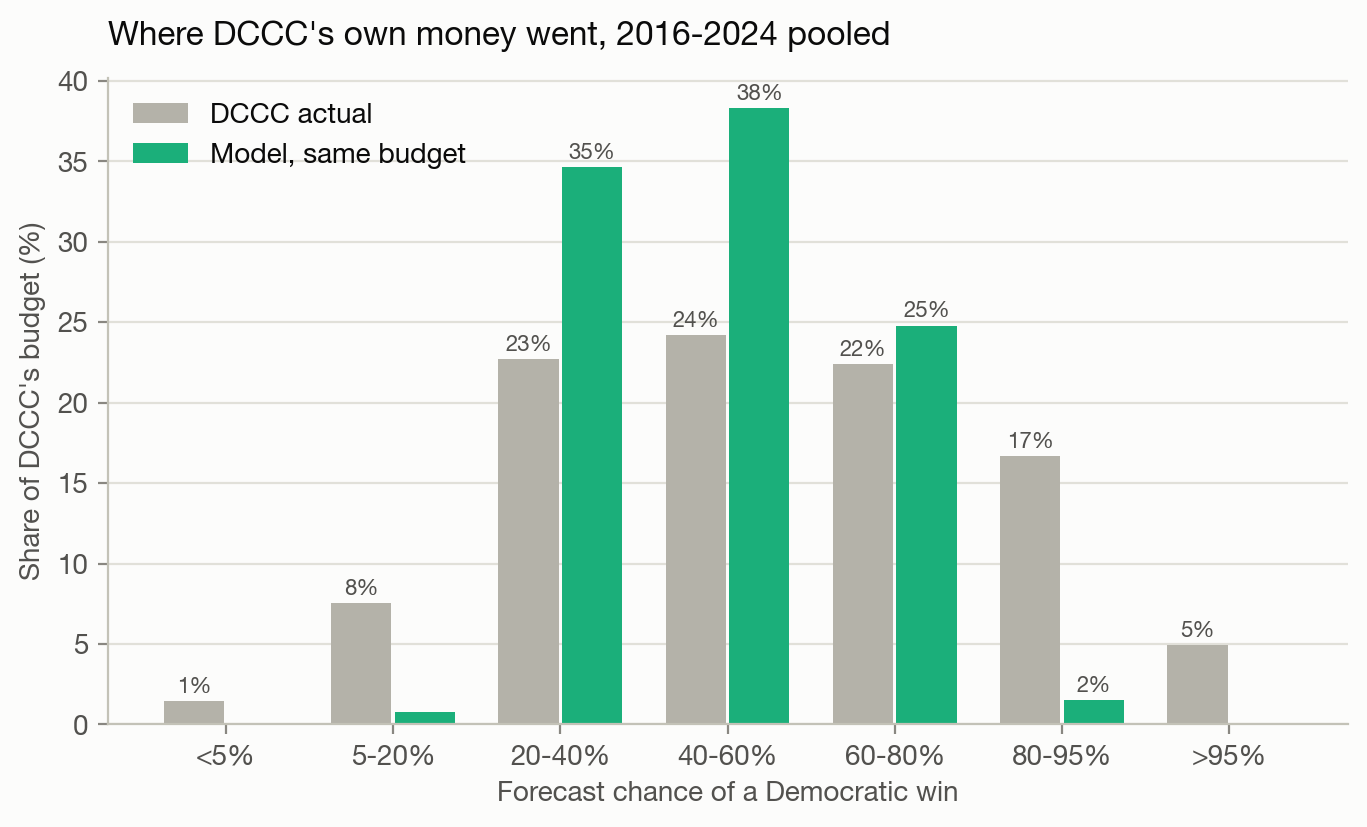
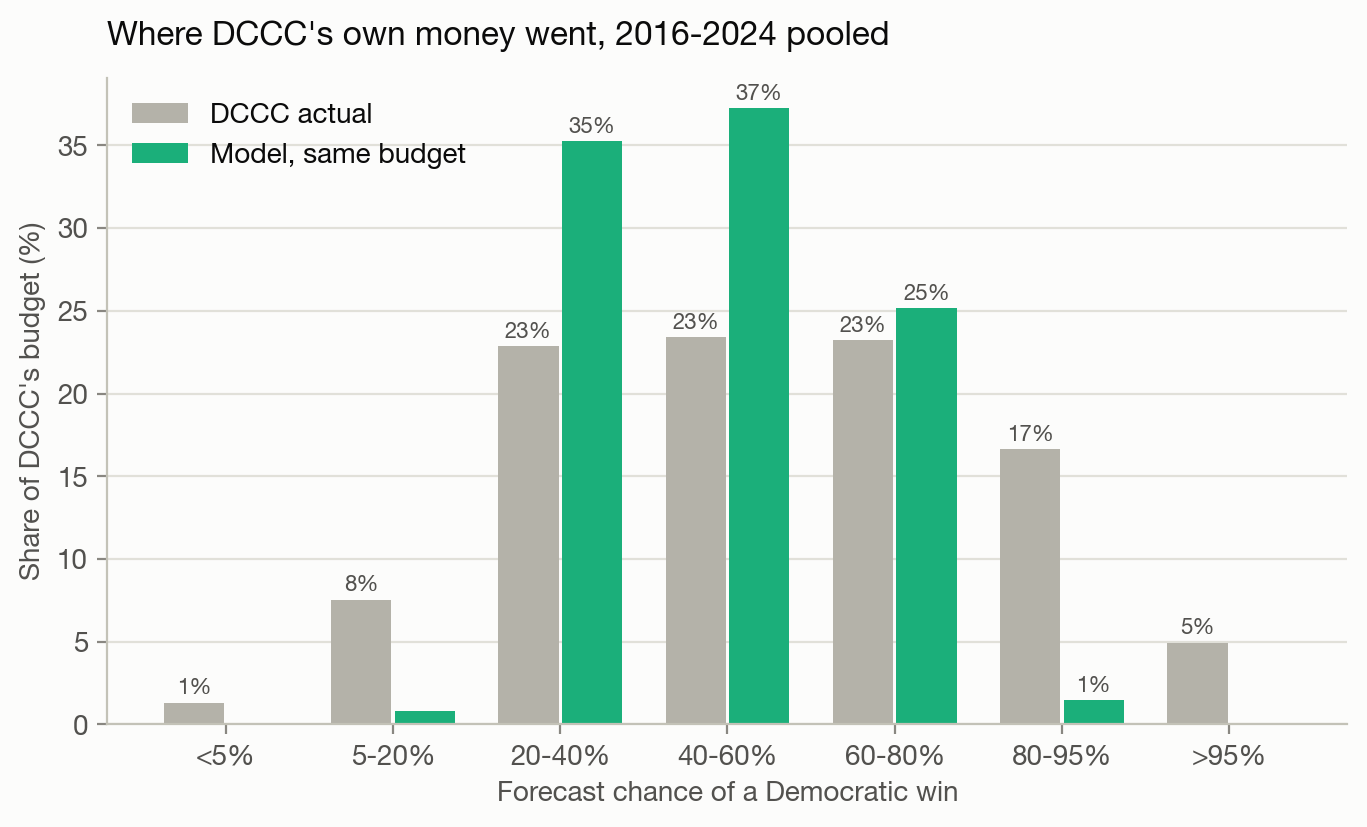
Fix nominee matching behind the 2022 under-20% outlier
The 2022 under-20% band in the implied-belief table read $4,710M per seat
(38.7x). The band cost is already dollar-weighted (sum x / sum x*m); the
outlier was AZ-02, where DCCC's $0.6M sat in a race the forecast gave
Democrats 0.2% because their nominee, O'Halleran, was never matched to FEC.

- load_results: repair names MIT stores as UTF-8 decoded twice ("TOM
  OâHALLERAN", 55 names, nearly all 2022) and straighten curly quotes.
  Fixes O'Halleran (AZ-02) and García (IL-04) in 2022.
- load_candidates, incumbent_history: drop apostrophes on both sides, since
  FEC writes both O'HALLERAN and DESPOSITO; otherwise D'Esposito (NY-04)
  matched Alison Esposito of NY-18 in 2024.
- load_early_money: also use the next cycle's candidate-committee links
  (Gillen's 2024 NY-04 committee is linked only for 2026).
- report: a band where DCCC spent nothing shows as such instead of "nan",
  and the text says how band costs are computed. 2022 now has no DCCC
  money under 20%.

diff --git a/campaign/report.py b/campaign/report.py
@@ -162,9 +162,11 @@ def report(races, backtests, fc, games, media, mixes):
     belief_rows = []
     for b in backtests:
         d, safe_k = b["belief"][HALF_SATURATION], [b["belief"][h].multiplier["80%+"] for h in HALF_SATURATIONS]
-        belief_rows.append(
-            f"| {b['cycle']} | " + " / ".join(f"${1 / v:.0f}M" for v in d.per_million) + " | "
-            + " | ".join(f"{d.multiplier[band]:.1f}x on ${d.dollars[band] / 1e6:.1f}M" for band in ("under 20%", "80%+"))
+        belief_rows.append(  # a band where DCCC spent nothing has no marginal cost to read back
+            f"| {b['cycle']} | " + " / ".join(f"${1 / v:.0f}M" if d.dollars[band] > 0 else "none spent"
+                                             for band, v in d.per_million.items()) + " | "
+            + " | ".join(f"{d.multiplier[band]:.1f}x on ${d.dollars[band] / 1e6:.1f}M" if d.dollars[band] > 0
+                         else "no DCCC money" for band in ("under 20%", "80%+"))
             + f" | {min(safe_k):.1f}-{max(safe_k):.1f}x |")
     safe_k = {b["cycle"]: b["belief"][HALF_SATURATION].multiplier["80%+"] for b in backtests}
     k_lo, k_hi = min(safe_k, key=safe_k.get), max(safe_k, key=safe_k.get)
@@ -359,7 +361,7 @@ Outside 2018, most of it protects DCCC's own incumbents, consistent with its "Fr
 |---|---|---|---|---|
 {chr(10).join(belief_rows)}
 
-The multiplier is how many times as far a dollar would have to move the margin in that band, compared with DCCC's 20-80% races, for its split to be optimal. The same number also reads as how many times as much those seats would have to be worth to DCCC, or as a sign that the forecast understates their risk. This data can't tell the three apart. In 80%+ races it runs from {safe_k[k_lo]:.1f}x ({k_lo}) to {safe_k[k_hi]:.1f}x ({k_hi}). Unlike the gain, it doesn't depend on how strong party money is assumed to be: the strength cancels in the ratio. Moving the half-saturation from $1.65M to $16.5M changes no year's 80%+ multiplier by more than {k_spread:.1f}. The costs in the first column do scale with the assumed strength; only their ratios are free of it.
+The multiplier is how many times as far a dollar would have to move the margin in that band, compared with DCCC's 20-80% races, for its split to be optimal. The same number also reads as how many times as much those seats would have to be worth to DCCC, or as a sign that the forecast understates their risk. This data can't tell the three apart. Each band's cost is DCCC's dollars there divided by the expected seats that spending a little more in proportion would buy, a dollar-weighted average of the marginal effect rather than an average of each race's cost, so one small buy in a hopeless race can't dominate a band (a band holding nothing else can). In 80%+ races it runs from {safe_k[k_lo]:.1f}x ({k_lo}) to {safe_k[k_hi]:.1f}x ({k_hi}). Unlike the gain, it doesn't depend on how strong party money is assumed to be: the strength cancels in the ratio. Moving the half-saturation from $1.65M to $16.5M changes no year's 80%+ multiplier by more than {k_spread:.1f}. The costs in the first column do scale with the assumed strength; only their ratios are free of it.
 
 **Would a committee facing a strategic opponent spend differently?** Another explanation for defending "safe" seats is deterrence: a seat DCCC leaves at $0 is where NRCC's first dollars go furthest. That can be tested by solving the game. DCCC maximizes expected Democratic seats and NRCC minimizes them, each re-spending its real budget under the same spending curve. The payoff is concave for DCCC and convex for NRCC, so a stable equilibrium exists. Fictitious play finds it (each side best-responds to the average of the other's past choices).
 

diff --git a/campaign/load_candidates.py b/campaign/load_candidates.py
@@ -9,7 +9,9 @@ Sinema ID in AZ-09). So each FEC candidate is matched to a name actually on
 the November ballot (MIT): the ballot surname must appear somewhere in the
 FEC name, after stripping accents ("SÁNCHEZ" vs "SANCHEZ"). Searching the
 whole FEC name, not just the part before the comma, catches married names
-("MATTELIN, CAITLIN RAE DRAPER" is the ballot's Caitlin Draper). FEC's party
+("MATTELIN, CAITLIN RAE DRAPER" is the ballot's Caitlin Draper).
+Apostrophes are dropped on both sides, because FEC spells the same kind of
+name both ways ("O'HALLERAN, TOM" but "DESPOSITO, ANTHONY P"). FEC's party
 code is sometimes unknown ("UNK"); a name match in the district is enough
 then. After redistricting FEC often keeps a member's old district number
 (Schweikert ran in AZ-01 in 2022 but is filed under AZ-06), so a nominee
@@ -56,7 +58,8 @@ def load_candidates(cycle, results):
     fec["district_id"] = fec.state + "-" + fec.district.str.zfill(2)
     fec["disbursements"] = pd.to_numeric(fec.disbursements, errors="coerce").fillna(0)
     columns = ["district_id", "party", "cand_id", "disbursements", "ici", "name"]
-    fec_ascii = fec.name.str.normalize("NFKD").str.encode("ascii", "ignore").str.decode("ascii").str.upper()
+    fec_ascii = (fec.name.str.normalize("NFKD").str.encode("ascii", "ignore").str.decode("ascii").str.upper()
+                 .str.replace("'", "", regex=False))         # FEC writes both O'HALLERAN and DESPOSITO
     fec["words"] = fec_ascii.str.findall(WORD).map(set)
     fec["initial"] = fec_ascii.str.split(",").str[1].str.strip().str[:1]
 
@@ -94,7 +97,7 @@ def load_candidates(cycle, results):
     ballot = pd.concat([results[["district_id", col]].explode(col).rename(columns={col: "ballot_name"}).assign(party=party)
                         for party, col in (("D", "d_names"), ("R", "r_names"))]).dropna()
     ballot_words = (ballot.ballot_name.str.normalize("NFKD").str.encode("ascii", "ignore").str.decode("ascii")
-                    .str.upper().str.findall(WORD).map(lambda words: [w for w in words if w not in SUFFIXES] or [""]))
+                    .str.upper().str.replace("'", "", regex=False).str.findall(WORD).map(lambda words: [w for w in words if w not in SUFFIXES] or [""]))
     ballot["surname"], ballot["initial"] = ballot_words.str[-1], ballot_words.str[0].str[:1]
     ballot["state"] = ballot.district_id.str[:2]
 

diff --git a/campaign/load_early_money.py b/campaign/load_early_money.py
@@ -14,11 +14,13 @@ the latest version of each report counts.
   June 1 and July 15 stands in. With that, 2012's matched nominees with
   June 30 money account for 99% of nominee spending.
 - Which committee: the candidate's principal or other authorized committee
-  for that cycle in FEC's candidate-committee links, whichever raised the
-  most. Not the candidate master file's principal committee: that is the
-  latest one, sometimes created after the election (Coffman's 2014
-  campaign filed under a committee later re-designated). Joint fundraising
-  committees are left out; they pass their money on to the campaign.
+  in FEC's candidate-committee links for that cycle or the next, whichever
+  raised the most by June 30. The next cycle's file catches committees FEC
+  links late (Gillen's 2024 campaign in NY-04 is linked only for 2026).
+  Not the candidate master file's principal committee: that is the latest
+  one, sometimes created after the election (Coffman's 2014 campaign filed
+  under a committee later re-designated). Joint fundraising committees are
+  left out; they pass their money on to the campaign.
 """
 
 from pathlib import Path
@@ -42,9 +44,10 @@ def load_early_money(cycle):
     latest = (pd.concat([july, stand_in]).sort_values(["end", "receipt_date", "file_number"])
               .drop_duplicates("committee_id", keep="last"))
 
-    links = pd.read_csv(RAW / f"ccl{str(cycle)[2:]}.txt", sep="|", header=None, dtype=str, usecols=[0, 2, 3, 5],
-                        names=["cand_id", "fec_year", "committee_id", "designation"])
-    links = links[(links.fec_year == str(cycle)) & links.designation.isin(["P", "A"])]
+    files = [RAW / f"ccl{str(c)[2:]}.txt" for c in (cycle, cycle + 2)]
+    links = pd.concat(pd.read_csv(f, sep="|", header=None, dtype=str, usecols=[0, 3, 5],
+                                  names=["cand_id", "committee_id", "designation"]) for f in files if f.exists())
+    links = links[links.designation.isin(["P", "A"])].drop_duplicates(["cand_id", "committee_id"])
     money = latest.merge(links[["cand_id", "committee_id"]], on="committee_id").rename(columns=MONEY)
     money["own"] = money[OWN].fillna(0).sum(axis=1)
     money = money[["cand_id", "raised", "spent", "own"]].fillna(0)

diff --git a/campaign/load_results.py b/campaign/load_results.py
@@ -12,6 +12,11 @@ House general-election results by district, from MIT Election Lab.
 - Every candidate with a D (or R) line counts toward that party, which
   handles Louisiana's multi-candidate November election and California's
   top-two (a D-vs-D race shows up as uncontested).
+- Names: about 60 rows, nearly all 2022, are UTF-8 decoded twice ("TOM
+  OâHALLERAN" for O'Halleran's curly apostrophe). They are repaired, and
+  curly quotes straightened, so names match FEC's spelling. Otherwise
+  O'Halleran (AZ-02, 2022) and García (IL-04, 2022) go unmatched and their
+  money counts as $0.
 """
 
 from pathlib import Path
@@ -21,6 +26,18 @@ import pandas as pd
 RAW = Path(__file__).resolve().parents[1] / "data" / "raw" / "house_1976_2024.csv"
 DEM = {"DEMOCRAT", "DEMOCRATIC", "DEMOCRATIC-FARMER-LABOR", "DEMOCRATIC-NPL", "DEMOCRATIC-NONPARTISAN LEAGUE"}
 REP = {"REPUBLICAN", "REPUBLICAN, LIBERTARIAN"}
+QUOTES = str.maketrans({"\u2018": "'", "\u2019": "'", "\u201c": '"', "\u201d": '"'})
+
+
+def clean_name(name):
+    """Undo UTF-8 decoded twice ("OâHALLERAN") and straighten curly quotes."""
+    for wrong in ("latin-1", "cp1252"):
+        try:
+            name = name.encode(wrong).decode("utf-8")
+            break
+        except (UnicodeEncodeError, UnicodeDecodeError):
+            pass
+    return name.translate(QUOTES)
 
 
 def load_results(cycle):
@@ -33,6 +50,7 @@ def load_results(cycle):
         keep &= ~raw[col].astype(str).str.upper().eq("TRUE")
     g = raw[keep].copy()
     g["district_id"] = g.state_po + "-" + g.district.str.zfill(2)
+    g["candidate"] = g.candidate.astype(str).map(clean_name)
     g["votes"] = pd.to_numeric(g.candidatevotes, errors="coerce").fillna(0)
     label = g.party.fillna("").str.upper()
 

diff --git a/campaign/incumbent_history.py b/campaign/incumbent_history.py
@@ -40,7 +40,7 @@ def incumbent_history(cycle, races, prior_gb):
     names (name_d, name_r, "SURNAME, FIRST"). `prior_gb`: the generic ballot
     two years earlier."""
     def words(name):  # ascii, upper-case words of a name, suffixes dropped
-        name = unicodedata.normalize("NFKD", str(name)).encode("ascii", "ignore").decode("ascii").upper()
+        name = unicodedata.normalize("NFKD", str(name)).encode("ascii", "ignore").decode("ascii").upper().replace("'", "")
         return [w for w in WORD.findall(name) if w not in SUFFIXES]
 
     earlier = load_results(cycle - 4)

diff --git a/REPORT.md b/REPORT.md
@@ -5,10 +5,10 @@ Generated by `python run.py` on 2026-10-28. Every number below is computed by th
 ## Summary
 
 - **The forecast holds up out of sample.** Each year from 2016-2024 was predicted using only earlier elections. Brier scores run from 0.015 to 0.036, and predicted and actual win rates match by tier from Safe D through Lean R (figure 3).
-- **DCCC's own spending was close to the best use of the same money, if you trust the polls.** At the default spending assumption, reallocating DCCC's budget would have gained +0.05 to +0.19 expected seats per cycle (average +0.13). Even the most generous assumption tested gains at most +1.75. The main difference: DCCC put 22% of its money into races already 80%+ likely to go Democratic, 73% of it protecting its own incumbents. In 2020 that caution was justified: 7 of those "safe" seats were lost anyway. And part of what looks like over-caution was the forecast's error, not DCCC's. First-term members, many elected in a wave, run well behind the usual incumbency edge. Flagging them, and carrying over each seat's last result, cuts the share of DCCC's 2020 money the forecast calls safe from 37% to 32% (figure 4, sections 4-5).
+- **DCCC's own spending was close to the best use of the same money, if you trust the polls.** At the default spending assumption, reallocating DCCC's budget would have gained +0.06 to +0.19 expected seats per cycle (average +0.13). Even the most generous assumption tested gains at most +1.75. The main difference: DCCC put 22% of its money into races already 80%+ likely to go Democratic, 73% of it protecting its own incumbents. In 2020 that caution was justified: 7 of those "safe" seats were lost anyway. And part of what looks like over-caution was the forecast's error, not DCCC's. First-term members, many elected in a wave, run well behind the usual incumbency edge. Flagging them, and carrying over each seat's last result, cuts the share of DCCC's 2020 money the forecast calls safe from 37% to 32% (figure 4, sections 4-5).
 - **Two readings that don't assume how strong party money is.** Reallocating DCCC's budget gains a full seat only if its first $1M in a race moves the margin 1.2-2.5 points, against 0.25 assumed. And DCCC's own split is optimal only if a dollar in its 80%+ races works 1.5-4.2 times as hard as one in its 20-80% races, or those seats are worth that much more to it (section 5).
 - **Neither strategy nor TV prices explain that defensive spending.** In a two-player game against NRCC, DCCC's best play puts at most 3% of its money in 80%+ seats (figure 5). DCCC already spends about half as much per race in the costliest TV markets, and pricing in market cost makes the model leave them almost entirely. No spender shifts toward mail where TV is most expensive (figure 6).
-- **2026: the national environment matters more than the new maps.** Redrawn maps in 9 states move Harris-won districts from 72 to 68 in those states (figure 7). At the current D+8.4 generic ballot, the model expects 242 Democratic seats among 434 modeled races (80% range 226-260), a 98% chance of a majority. A 3-point polling miss moves the expected total by about 13 seats (figures 8-9).
+- **2026: the national environment matters more than the new maps.** Redrawn maps in 9 states move Harris-won districts from 72 to 68 in those states (figure 7). At the current D+8.4 generic ballot, the model expects 243 Democratic seats among 434 modeled races (80% range 226-260), a 98% chance of a majority. A 3-point polling miss moves the expected total by about 13 seats (figures 8-9).
 
 ## 1. Data
 
@@ -42,7 +42,7 @@ Generated by `python run.py` on 2026-10-28. Every number below is computed by th
 | 2016 | 406 | 338 | +0.6 | $64M | $64M | $54M | $57M |
 | 2018 | 434 | 390 | +7.3 | $73M | $60M | $222M | $188M |
 | 2020 | 434 | 404 | +6.8 | $87M | $76M | $212M | $207M |
-| 2022 | 432 | 396 | -2.5 | $96M | $86M | $222M | $272M |
+| 2022 | 433 | 397 | -2.5 | $96M | $86M | $222M | $272M |
 | 2024 | 431 | 394 | -0.3 | $69M | $47M | $325M | $300M |
 | 2026 | 434 | - | +8.4 | $0M | $0M | $439M | $467M |
 
@@ -63,7 +63,7 @@ Races with under $100K of total spending and Alaska (ranked-choice) are excluded
 
 The model does two separate jobs.
 
-**Job 1: the baseline forecast** (fit by least squares on contested races, 2012-2024, n = 2621):
+**Job 1: the baseline forecast** (fit by least squares on contested races, 2012-2024, n = 2622):
 
 ```
 margin_i - GB = a + b*PVI_i + c*D_incumbent_i + d*Open_i + e*floor_share_i
@@ -73,9 +73,9 @@ P(Democrat wins race i) = Phi(expected margin_i / sigma)
 
 | a (intercept) | b (PVI) | c (D incumbent) | d (open seat) | e (floor share) | f (first-term D) | g (first-term R) | h (overperformance, incumbent) | k (overperformance, open) | sigma |
 |---|---|---|---|---|---|---|---|---|---|
-| -1.24 | 1.63 | +8.82 | +4.24 | 2.12 | -3.34 | +0.36 | 0.23 | 0.25 | 7.62 |
+| -1.19 | 1.63 | +8.78 | +4.18 | 2.14 | -3.35 | +0.34 | 0.23 | 0.25 | 7.61 |
 
-Each point of PVI is worth 1.6 points of margin. Having the Democrat rather than the Republican as the incumbent is worth 9 points, 3 less for a first-term Democrat; first-term Republicans show no such gap (+0.4). About a fifth of how far a seat's party ran ahead of its lean last time carries into the next election (0.23 with the incumbent running again, 0.25 for an open seat). The generic ballot is fixed at a 1:1 pass-through rather than estimated: with one national value per cycle, a fitted slope would mostly chase polling misses. sigma is the residual spread, so it includes those misses; that is the right uncertainty for a forecast made before the votes are counted.
+Each point of PVI is worth 1.6 points of margin. Having the Democrat rather than the Republican as the incumbent is worth 9 points, 3 less for a first-term Democrat; first-term Republicans show no such gap (+0.3). About a fifth of how far a seat's party ran ahead of its lean last time carries into the next election (0.23 with the incumbent running again, 0.25 for an open seat). The generic ballot is fixed at a 1:1 pass-through rather than estimated: with one national value per cycle, a fitted slope would mostly chase polling misses. sigma is the residual spread, so it includes those misses; that is the right uncertainty for a forecast made before the votes are counted.
 
 **National, state and district error.** Part of every race's error is shared: in a year the polls miss, they miss everywhere at once, and races in the same state also miss together. Splitting it out, sigma^2 = sigma_national^2 + sigma_state^2 + sigma_district^2. sigma_national = 2.8 points is the spread of each cycle's average miss. sigma_state = 3.5 is how much each state's average miss varies beyond what its number of races explains, and sigma_district = 6.2 is the rest. A single race's probability needs only the total. The seat total needs the split: conditional on the national and state misses, races are independent, and averaging over both gives the seat distribution in section 6.
 
@@ -103,8 +103,8 @@ Each year is forecast from a model fit only on earlier years.
 | 2016 | 0.015 | 189 | 182 | $64M | +0.13 | +0.02 to +1.39 |
 | 2018 | 0.036 | 226 | 235 | $73M | +0.19 | +0.02 to +1.75 |
 | 2020 | 0.034 | 244 | 222 | $87M | +0.16 | +0.02 to +1.35 |
-| 2022 | 0.027 | 206 | 210 | $96M | +0.12 | +0.02 to +1.03 |
-| 2024 | 0.016 | 212 | 213 | $69M | +0.05 | +0.01 to +0.80 |
+| 2022 | 0.027 | 207 | 211 | $96M | +0.12 | +0.02 to +1.03 |
+| 2024 | 0.016 | 212 | 213 | $69M | +0.06 | +0.01 to +0.82 |
 
 Seats are counted among modeled races, so Alaska and races with under $100K of spending are left out. The biggest miss is 2020, and three errors stacked up there. The polls overstated Democrats nationally, and the average contested race ran 6.4 points behind the forecast. Democratic incumbents ran 9.3 points behind and Republican incumbents only 2.8: the 2020 forecast learned incumbency from earlier years, and the edge shrank sharply after 2016 (section 8). And many of those Democrats were first-term members elected in the 2018 wave. Without the incumbent history below they ran 12.5 points behind the forecast; with it, 8.3, in line with the 9.7 of other Democratic incumbents.
 
@@ -115,10 +115,10 @@ Seats are counted among modeled races, so Alaska and races with under $100K of s
 | 2016 | 0.019 / 0.015 | 0.062 / 0.052 | 0 / 1 |
 | 2018 | 0.034 / 0.036 | 0.110 / 0.113 | 3 / 5 |
 | 2020 | 0.036 / 0.034 | 0.161 / 0.132 | 10 / 8 |
-| 2022 | 0.028 / 0.027 | 0.089 / 0.088 | 3 / 3 |
-| 2024 | 0.016 / 0.016 | 0.056 / 0.056 | 1 / 0 |
+| 2022 | 0.028 / 0.027 | 0.089 / 0.088 | 2 / 2 |
+| 2024 | 0.015 / 0.016 | 0.055 / 0.055 | 1 / 0 |
 
-Averaged over 2016-2024, log loss falls from 0.096 to 0.088. The history helps most in 2020 and 2016, and costs a little in 2018.
+Averaged over 2016-2024, log loss falls from 0.095 to 0.088. The history helps most in 2020 and 2016, and costs a little in 2018.
 
 **What hindsight money was worth.** The money feature counts only what a forecaster deciding on Sept 1 could see: what each nominee had raised by June 30 (the FEC's July report; 67% as much as nominees went on to spend over the whole election), less the candidate's own contributions and loans, and outside money that had reached voters by Aug 31 (3% of all outside money, 2012-2024). An earlier version of this repo counted all of it, though most is spent in the fall and some follows how the race is going. That hindsight version, fit and scored the same way:
 
@@ -127,10 +127,10 @@ Averaged over 2016-2024, log loss falls from 0.096 to 0.088. The history helps m
 | 2016 | 0.015 / 0.015 | 0.051 / 0.052 | 1 / 1 |
 | 2018 | 0.035 / 0.036 | 0.110 / 0.113 | 5 / 5 |
 | 2020 | 0.034 / 0.034 | 0.135 / 0.132 | 8 / 8 |
-| 2022 | 0.026 / 0.027 | 0.084 / 0.088 | 3 / 3 |
-| 2024 | 0.015 / 0.016 | 0.054 / 0.056 | 0 / 0 |
+| 2022 | 0.026 / 0.027 | 0.084 / 0.088 | 3 / 2 |
+| 2024 | 0.015 / 0.016 | 0.054 / 0.055 | 0 / 0 |
 
-Averaged over 2016-2024, log loss is 0.087 with hindsight and 0.088 without. On the 387 races the September forecast put between 5% and 95%, it is 0.407 with hindsight and 0.418 without. So hindsight made the forecast look somewhat better than a September decision could be, mostly in close races. Dropping the money feature altogether forecasts worse than either (tested while building this repo): the money visible by September keeps most of its value.
+Averaged over 2016-2024, log loss is 0.087 with hindsight and 0.088 without. On the 388 races the September forecast put between 5% and 95%, it is 0.407 with hindsight and 0.416 without. So hindsight made the forecast look somewhat better than a September decision could be, mostly in close races. Dropping the money feature altogether forecasts worse than either (tested while building this repo): the money visible by September keeps most of its value.
 
 ![Calibration](figures/3_calibration.png)
 
@@ -141,8 +141,8 @@ Averaged over 2016-2024, log loss is 0.087 with hindsight and 0.088 without. On 
 | 2016 | 189 | 179-199 | 182 | 207 | 2% | Republicans |
 | 2018 | 226 | 213-240 | 235 | 218 | 80% | Democrats |
 | 2020 | 244 | 234-255 | 222 (outside) | 218 | >99% | Democrats |
-| 2022 | 206 | 191-220 | 210 | 216 | 19% | Republicans |
-| 2024 | 212 | 200-223 | 213 | 216 | 34% | Republicans |
+| 2022 | 207 | 192-221 | 211 | 217 | 20% | Republicans |
+| 2024 | 212 | 200-223 | 213 | 216 | 35% | Republicans |
 
 The 80% range held the actual result in 4 of 5 years, and the favorite for the majority won in 5 of 5. Outside the range: 2020, when Democrats won 222 against a range of 234-255. ("Needed" counts only modeled races; seats outside the model are credited by their partisan lean.)
 
@@ -154,9 +154,9 @@ Average gain from reallocating DCCC's budget over 2016-2024, in expected seats p
 |---|---|---|---|
 | 0.5 pts | +0.13 | +0.04 | +0.02 |
 | 1.5 pts | +0.40 | +0.13 | +0.05 |
-| 4.5 pts | +1.26 | +0.41 | +0.16 |
+| 4.5 pts | +1.26 | +0.40 | +0.16 |
 
-Under every assumption tested the answer is "close to optimal": a fraction of a seat at the default, and under two seats even if party money is three times as powerful and saturates three times as fast. The model would put 98% of the money in races between 20% and 80%, against DCCC's 69%.
+Under every assumption tested the answer is "close to optimal": a fraction of a seat at the default, and under two seats even if party money is three times as powerful and saturates three times as fast. The model would put 98% of the money in races between 20% and 80%, against DCCC's 70%.
 
 **How strong would party money have to be?** The grid fixes a strength and asks what reallocating gains. Turned around: how strong would party money have to be for reallocating DCCC's budget to gain one full expected seat? The gain never falls as the scale rises, so each cycle has one break-even scale for each curve shape:
 
@@ -165,7 +165,7 @@ Under every assumption tested the answer is "close to optimal": a fraction of a 
 | 2016 | 3.4 / 9.1 / 22.9 | 6x | 1.3-1.6 pts |
 | 2018 | 2.6 / 7.6 / 20.3 | 5x | 1.2-1.3 pts |
 | 2020 | 3.4 / 9.0 / 21.3 | 6x | 1.3-1.6 pts |
-| 2022 | 4.4 / 14.5 / 36.0 | 10x | 2.1-2.4 pts |
+| 2022 | 4.4 / 14.6 / 37.0 | 10x | 2.1-2.4 pts |
 | 2024 | 5.3 / 15.2 / 38.8 | 10x | 2.3-2.5 pts |
 
 At the default half-saturation the scale would have to be 5 to 10 times the default. Put in dollars, the curve's shape barely matters: under all three half-saturations, a full seat needs DCCC's first $1M in a race to move its margin 1.2 to 2.5 points, against 0.25 assumed. That is a number a measured effect can be checked against. A randomized test that found less than 1.20 points per first $1M would put the gain from reallocating under a seat in every cycle tested, under any of the three curve shapes.
@@ -179,7 +179,7 @@ At the default half-saturation the scale would have to be 5 to 10 times the defa
 | 2016 | 11% | 0% | $7M | 97% | 0 |
 | 2018 | 24% | 0% | $17M | 6% | 0 |
 | 2020 | 32% | 2% | $28M | 81% | 7: CA-21, CA-39, CA-48, FL-26, IA-01, IA-02, TX-23 |
-| 2022 | 32% | 4% | $31M | 98% | 2: NY-04, NY-17 |
+| 2022 | 32% | 3% | $30M | 98% | 1: NY-17 |
 | 2024 | 3% | 2% | $2M | 93% | 0 |
 
 Outside 2018, most of it protects DCCC's own incumbents, consistent with its "Frontline" program for vulnerable members. In 2018 the 80%+ money went to Republican seats the forecast already had as likely pickups. In 2020 the caution was justified, and part of what looks like over-caution was the forecast's own error. Without the incumbent history, the forecast puts 37% of DCCC's 2020 money in 80%+ seats, and 9 of the seats DCCC defended there were lost, 8 of them held by first-term members. With it, that share is 32%, and NM-02, NY-11, UT-04 drop below 80%. CA-21, CA-39, CA-48, FL-26, IA-01, TX-23 stay above 80% and were lost anyway, and IA-02 is newly rated above 80% and lost. The 2020 forecast still overrated Democratic incumbents as a group (section 4). Whether DCCC's money saved any others can't be seen in this data. So "close to optimal" is conditional on the forecast being right. DCCC's main deviation from it is insurance against it being wrong, concentrated on its own members. Two other objectives were tested while building this repo and are not in the pipeline. Maximizing the probability of a majority reproduces the defense in 2018 and 2020 but goes on offense in years Democrats trail (2016, 2022, 2024). Maximizing expected seats in the worst quarter of national environments adds defense every year, but most in the years DCCC defended least. Neither matches DCCC by itself.
@@ -191,10 +191,10 @@ Outside 2018, most of it protects DCCC's own incumbents, consistent with its "Fr
 | 2016 | $310M / $143M / $603M | 2.2x on $9.6M | 4.2x on $6.9M | 4.1-4.2x |
 | 2018 | $260M / $122M / $280M | 2.1x on $13.0M | 2.3x on $17.3M | 2.1-2.6x |
 | 2020 | $162M / $120M / $287M | 1.4x on $7.9M | 2.4x on $27.5M | 2.3-2.5x |
-| 2022 | $4710M / $122M / $203M | 38.7x on $0.6M | 1.7x on $30.6M | 1.6-1.7x |
-| 2024 | $198M / $126M / $188M | 1.6x on $3.9M | 1.5x on $1.7M | 1.0-1.9x |
+| 2022 | none spent / $121M / $204M | no DCCC money | 1.7x on $30.5M | 1.7-1.7x |
+| 2024 | $196M / $128M / $188M | 1.5x on $3.9M | 1.5x on $1.7M | 1.0-1.8x |
 
-The multiplier is how many times as far a dollar would have to move the margin in that band, compared with DCCC's 20-80% races, for its split to be optimal. The same number also reads as how many times as much those seats would have to be worth to DCCC, or as a sign that the forecast understates their risk. This data can't tell the three apart. In 80%+ races it runs from 1.5x (2024) to 4.2x (2016). Unlike the gain, it doesn't depend on how strong party money is assumed to be: the strength cancels in the ratio. Moving the half-saturation from $1.65M to $16.5M changes no year's 80%+ multiplier by more than 0.9. The costs in the first column do scale with the assumed strength; only their ratios are free of it.
+The multiplier is how many times as far a dollar would have to move the margin in that band, compared with DCCC's 20-80% races, for its split to be optimal. The same number also reads as how many times as much those seats would have to be worth to DCCC, or as a sign that the forecast understates their risk. This data can't tell the three apart. Each band's cost is DCCC's dollars there divided by the expected seats that spending a little more in proportion would buy, a dollar-weighted average of the marginal effect rather than an average of each race's cost, so one small buy in a hopeless race can't dominate a band (a band holding nothing else can). In 80%+ races it runs from 1.5x (2024) to 4.2x (2016). Unlike the gain, it doesn't depend on how strong party money is assumed to be: the strength cancels in the ratio. Moving the half-saturation from $1.65M to $16.5M changes no year's 80%+ multiplier by more than 0.9. The costs in the first column do scale with the assumed strength; only their ratios are free of it.
 
 **Would a committee facing a strategic opponent spend differently?** Another explanation for defending "safe" seats is deterrence: a seat DCCC leaves at $0 is where NRCC's first dollars go furthest. That can be tested by solving the game. DCCC maximizes expected Democratic seats and NRCC minimizes them, each re-spending its real budget under the same spending curve. The payoff is concave for DCCC and convex for NRCC, so a stable equilibrium exists. Fictitious play finds it (each side best-responds to the average of the other's past choices).
 
@@ -203,14 +203,14 @@ The multiplier is how many times as far a dollar would have to move the margin i
 | 2016 | 11% | 0% | 188.5 vs 188.6 | 0.23 | 0.00 |
 | 2018 | 24% | 1% | 226.5 vs 226.5 | 0.36 | 0.00 |
 | 2020 | 32% | 2% | 244.2 vs 244.2 | 0.33 | 0.00 |
-| 2022 | 32% | 3% | 205.9 vs 205.9 | 0.27 | 0.00 |
-| 2024 | 3% | 2% | 211.7 vs 211.7 | 0.10 | 0.00 |
+| 2022 | 32% | 3% | 207.1 vs 207.1 | 0.25 | 0.00 |
+| 2024 | 3% | 2% | 211.9 vs 211.9 | 0.11 | 0.00 |
 
 The equilibrium puts almost nothing in 80%+ seats. A raid on a seat that's 85% Democratic buys margin where it barely changes who wins, so it isn't worth deterring. Both committees' actual allocations are within about a tenth of a seat of the equilibrium value. Deterrence doesn't explain the defense either.
 
 ![Equilibrium](figures/5_equilibrium.png)
 
-Figure 5 shows the whole picture. At equilibrium each side's best reply is to meet the other in the same close races: 97% of DCCC's money and 98% of NRCC's goes to races between 20% and 80%. In reality both spread much wider, DCCC with 31% of its money outside that band and NRCC with 27%. Most of that extra money lands in the same place, seats Democrats are 80%+ likely to win: 22% of DCCC's budget defends them and 22% of NRCC's attacks them. Seats Democrats are under 20% likely to win get far less, 9% of DCCC's budget on offense and 5% of NRCC's on defense.
+Figure 5 shows the whole picture. At equilibrium each side's best reply is to meet the other in the same close races: 97% of DCCC's money and 99% of NRCC's goes to races between 20% and 80%. In reality both spread much wider, DCCC with 30% of its money outside that band and NRCC with 27%. Most of that extra money lands in the same place, seats Democrats are 80%+ likely to win: 22% of DCCC's budget defends them and 22% of NRCC's attacks them. Seats Democrats are under 20% likely to win get far less, 9% of DCCC's budget on offense and 5% of NRCC's on defense.
 
 ## 6. TV markets and channels
 
@@ -218,8 +218,8 @@ TV time is bought by market, not by district, so a TV buy pays to reach everyone
 
 | Year | TV share of DCCC's spending | DCCC per battleground race: costliest quarter of markets vs rest | DCCC's budget in costliest quarter | Model's share there (gamma 0 / 0.5 / 1) | Gain vs DCCC (gamma 0 / 0.5 / 1) |
 |---|---|---|---|---|---|
-| 2022 | 79% | $1.0M vs $2.0M | 10% | 27% / 4% / 0% | +0.12 / +0.18 / +0.28 |
-| 2024 | 74% | $1.9M vs $2.2M | 22% | 28% / 6% / 0% | +0.05 / +0.07 / +0.14 |
+| 2022 | 79% | $0.9M vs $2.0M | 11% | 30% / 7% / 0% | +0.12 / +0.17 / +0.28 |
+| 2024 | 74% | $1.9M vs $2.2M | 22% | 26% / 5% / 0% | +0.06 / +0.08 / +0.14 |
 
 DCCC already spends about half as much per race where TV is costliest. Pricing in market cost pushes the model further the same way: with any real cost penalty it leaves those districts almost entirely, and DCCC's gap to the model widens a little. That runs against a common intuition. Expensive districts don't need more money from a seat-maximizer; the same dollar buys less there, so it goes where it buys more.
 
@@ -243,9 +243,9 @@ Forecast from a baseline fit on all 2012-2024 races, at the current generic ball
 
 | Generic ballot | D+5.4 | D+8.4 (now) | D+11.4 |
 |---|---|---|---|
-| Expected Democratic seats | 231 | 242 | 256 |
+| Expected Democratic seats | 231 | 243 | 256 |
 
-Averaging over the national and state errors instead of fixing them gives the full distribution. The model puts Democrats at 242 seats among modeled races, an 80% range of 226-260, and a 98% chance of reaching the 218 they need for a majority. Treat that as optimistic. The national error is estimated from only seven elections, and normal tails understate big misses (section 4). A 4-point polling miss like 2020's would leave Democrats near 227 seats.
+Averaging over the national and state errors instead of fixing them gives the full distribution. The model puts Democrats at 243 seats among modeled races, an 80% range of 226-260, and a 98% chance of reaching the 218 they need for a majority. Treat that as optimistic. The national error is estimated from only seven elections, and normal tails understate big misses (section 4). A 4-point polling miss like 2020's would leave Democrats near 227 seats.
 
 ![Seat distribution](figures/9_seat_distribution.png)
 
@@ -260,7 +260,7 @@ Averaging over the national and state errors instead of fixing them gives the fu
 | FL-08 | R incumbent | -7.8 | 15% | 30% |
 | FL-12 | R incumbent | -6.8 | 20% | 38% |
 | NC-03 | R incumbent | -5.8 | 22% | 41% |
-| CA-40 | R incumbent | -6.0 | 23% | 43% |
+| CA-40 | R incumbent | -6.0 | 24% | 43% |
 | FL-13 | R incumbent | -5.8 | 25% | 45% |
 | OH-10 | R incumbent | -2.8 | 50% | 71% |
 | AL-02 | D incumbent | -6.8 | 51% | 44% |
@@ -273,12 +273,12 @@ Averaging over the national and state errors instead of fixing them gives the fu
 | FL-14 | D incumbent | -4.8 | 86% | 68% |
 | FL-25 | D incumbent | -3.8 | 88% | 71% |
 
-Individual races move 6-24 points, but the shifts run in both directions and largely cancel: treating all 82 redrawn incumbents as open moves the expected Democratic total by +0.7 seats.
+Individual races move 7-24 points, but the shifts run in both directions and largely cancel: treating all 82 redrawn incumbents as open moves the expected Democratic total by +0.6 seats.
 
 ## 8. Limitations
 
 - **The spending effect is assumed.** The allocation results depend on it, and public data can't pin it down. Section 5 adds two readings that need less of it: how strong it would have to be for reallocating to matter, and what DCCC's own allocation implies. Both still assume the same curve in every race, and that each party's money moves the margin independently of the other's.
-- **Likely R seats are overrated**, at about 11% predicted against 5% actual. Most of the gap is 2020 (26% predicted, 0% actual), the national polling miss again, rather than a problem in deep-red seats specifically.
+- **Likely R seats are overrated**, at about 12% predicted against 5% actual. Most of the gap is 2020 (26% predicted, 0% actual), the national polling miss again, rather than a problem in deep-red seats specifically.
 - **The incumbency effect has shrunk.** Fit on 2012-2016 alone, having the Democrat rather than the Republican as the incumbent is worth 16 points; on 2018-2024, 5. The model pools every cycle and gives 2026 incumbents 9 points, more than recent cycles alone would. Weighting recent cycles more was tested while building this repo and forecast worse forward in time: the fits got noisy and overconfident. The first-term flag captures the part of the decline that can be predicted.
 - **The incumbency effect is learned from incumbents running in their own districts**, so it is probably too large for members on redrawn 2026 maps (bounds in section 6).
 - **2026 nominees are the top spenders reported so far** until official results name them, and their money counts through June 30, as in past cycles. Where the top spender had no House report through June 30 (a Senate run, a campaign that ended, a primary loser), the actual nominees were looked up by hand, with sources, in [`data/nominees_2026.csv`](data/nominees_2026.csv): 13 districts, AR-04, CA-45, FL-06, GA-09, IL-07, ME-02, NC-04, NY-17, TX-07, TX-08, TX-30, VA-11, WI-07. Other districts' top spenders were not checked one by one.

diff --git a/README.md b/README.md
@@ -10,9 +10,9 @@ Where should a party committee spend its money across House races? This repo ans
 ## Headline results
 
 - **The forecast is calibrated out of sample.** Each year from 2016 to 2024 was predicted only from earlier elections, and predicted and actual win rates match by tier.
-- **It only uses money a September decision could see.** Candidate money counts through June 30 and outside money through August 31. An earlier version counted each side's spending over the whole election, most of it in the fall; that hindsight made close races look easier to call than they were (log loss 0.407 against 0.418 on races the September forecast put between 5% and 95%).
+- **It only uses money a September decision could see.** Candidate money counts through June 30 and outside money through August 31. An earlier version counted each side's spending over the whole election, most of it in the fall; that hindsight made close races look easier to call than they were (log loss 0.407 against 0.416 on races the September forecast put between 5% and 95%).
 - **DCCC's own spending was within a few tenths of a seat** of the best allocation of the same budget at the default assumption, and under two seats even under generous ones. The main difference is money protecting its own incumbents in seats the forecast called safe, a caution that was justified in 2020.
-- **Part of 2020's "safe" money wasn't over-caution.** Incumbency is worth less than half what it was before 2018, and first-term members elected in a wave run further behind still. Flagging them and carrying over each seat's last result improves the forecast out of sample (log loss 0.096 → 0.088), and cuts the share of DCCC's 2020 money the forecast calls safe from 37% to 32%.
+- **Part of 2020's "safe" money wasn't over-caution.** Incumbency is worth less than half what it was before 2018, and first-term members elected in a wave run further behind still. Flagging them and carrying over each seat's last result improves the forecast out of sample (log loss 0.095 → 0.088), and cuts the share of DCCC's 2020 money the forecast calls safe from 37% to 32%.
 - **Turned around, the answer needs less of the spending assumption.** Reallocating would gain a full seat only if party money were 5 to 10 times as strong as assumed (DCCC's first $1M in a race moving it 1.2-2.5 points, not 0.25). DCCC's own split is optimal only if a dollar in races the forecast already gave Democrats at 80%+ works 1.5 to 4.2 times as hard as one in close races, a ratio that doesn't depend on how strong money is.
 - **Neither strategy nor TV prices explain that.** In a two-player game against NRCC, the equilibrium puts almost nothing in safe seats. DCCC already spends about half as much per race in the costliest TV markets. No spender shifts toward mail where TV is most expensive.
 - **2026:** the new maps cost Democrats about four Harris-won districts, but a 3-point move in the national environment swings about a dozen expected seats. With polling error shared nationally and within each state, the model gives Democrats a 98% chance of a majority, which is likely optimistic.
